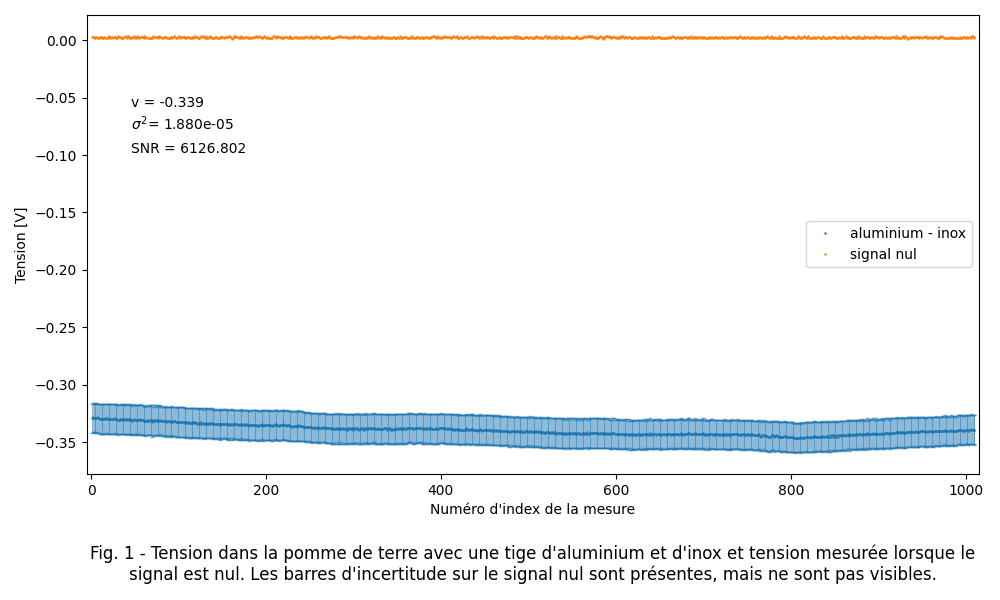
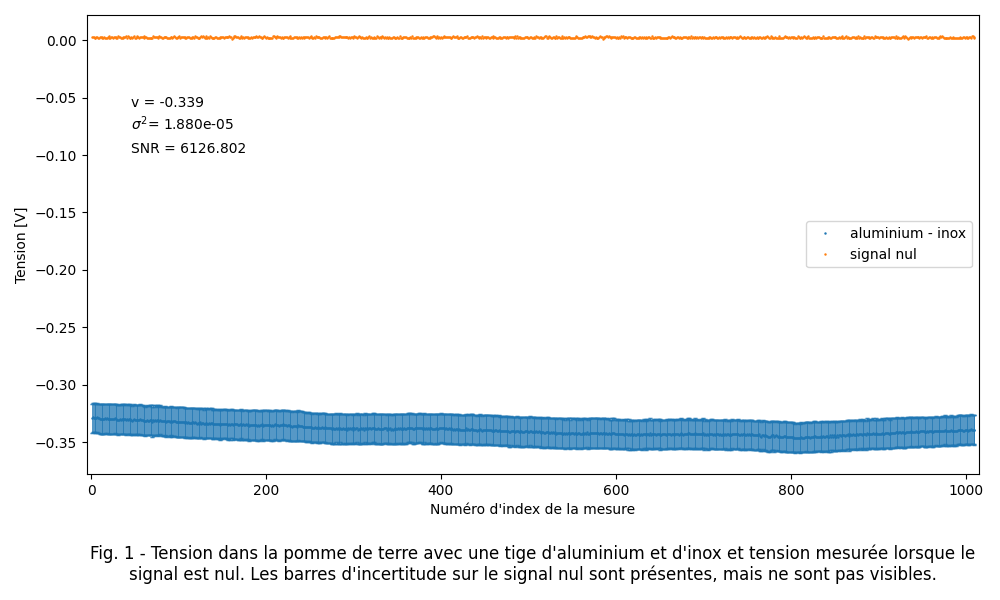
tusorte de choses

Changed region(s): [[0.093, 0.66, 0.992, 0.78]]

diff --git a/Labo1/Programmation/Comparaison_bruit.py b/Labo1/Programmation/Comparaison_bruit.py
@@ -6,7 +6,7 @@ from pathlib import Path
 
 
 # Choisir le directory pour les figures et le créer s'il n'existe pas.
-plot_dir = os.path.join("Labo1/Figures/tension_constante")
+plot_dir = os.path.join("Labo1/Figures/signal_nul_vs_bruit_gaussien")
 os.makedirs(plot_dir, exist_ok=True)
 
 # Les fichiers de données
@@ -20,6 +20,7 @@ files = ['Labo1/Mesures/convertisseur_090925_01.lvm',               #0
 
 # Descriptions et légendes
 description = {0: 'le convertisseur',
+               1: "le signal nul",
                2: "la pomme de terre avec une tige d'aluminium et d'inox",
                3: "la pomme de terre avec une tige d'aluminium et d'acier",
                4: "la pile",
@@ -27,14 +28,15 @@ description = {0: 'le convertisseur',
                }
 
 nom = {0: 'convertisseur',
+       1: "signal nul",
        2: "aluminium - inox",
        3: "aluminium - acier",
        4: "pile",
        5: "circuit"
        }
 
-num = 2
-filepath = files[num]
+num = 1
+filepath = 'Labo1/Mesures/convertisseur_débranché_100925_01.lvm'
 
 def read(file_name):
     df = pd.read_csv(file_name, sep="\t", skiprows=22, decimal=",")
@@ -47,19 +49,11 @@ def read(file_name):
         arr[:, 0] += 0.0085  
     return df.to_numpy()[:, :col]
 
-def moyenne(file_name, indice):
-    return float(np.mean(read(file_name)[:, indice]))
-
-def variance(file_name, indice):
-    return float(np.var(read(file_name)[:, indice], ddof=0))
-
-def snr(file_name, indice):
-    m = moyenne(file_name, indice); v = variance(file_name, indice)
-    return (m*m)/v if v != 0 else np.inf
 
 def incertitude(array, indice):
     col = array[:, indice]
     return abs(np.std(col)/np.mean(col))
+
 
 def graphiques_scatter(array):
     fig = plt.gcf()
@@ -71,11 +65,9 @@ def graphiques_scatter(array):
     x_brt = np.arange(1, bruit.shape[0] + 1)
 
     plt.plot(x_sig, array[:, 0], markersize=0.75, linestyle='none', marker='o', label=nom[num])
-    plt.plot(x_brt,  bruit[:, 0], markersize=0.75, linestyle='none', marker='o', label="signal nul")
+    plt.plot(x_brt,  bruit[:, 1], markersize=0.75, linestyle='none', marker='o', label="bruit gaussien")
 
     plt.errorbar(x_sig, array[:, 0], yerr=incertitude(array, 0), fmt='none',
-                 elinewidth=0.6, capsize=1.5, alpha=0.6)
-    plt.errorbar(x_brt, bruit[:, 0], yerr=incertitude(array, 0), fmt='none',
                  elinewidth=0.6, capsize=1.5, alpha=0.6)
 
     plt.xlim(-5, 1015)
@@ -84,18 +76,13 @@ def graphiques_scatter(array):
     plt.ylabel("Tension [V]")
 
     plt.title(
-        f"Fig. 1 - Tension dans {description[num]} et tension mesurée lorsque le\nsignal est nul."
+        f"Fig. 1 - Tension mesurée lorsque le signal est nul et bruit gaussien."
         " Les barres d'incertitude sur le signal nul sont présentes, mais ne sont pas visibles.",
         y=-0.25
     )
 
-    ax = plt.gca()
-    ax.text(0.05, 0.80, f"v = {moyenne(filepath, 0):.3f}", transform=ax.transAxes)
-    ax.text(0.05, 0.75, r"$\sigma^2$" + f"= {variance(filepath, 0):.3e}", transform=ax.transAxes)
-    ax.text(0.05, 0.70, f"SNR = {snr(filepath, 0):.3f}", transform=ax.transAxes)
-
     plt.tight_layout()
-    plt.savefig(os.path.join(plot_dir, f"_{nom[num]}.png"))
+    plt.savefig(os.path.join(plot_dir, "signal_nul_vs_bruit.png"))
 
     plt.show()
 
